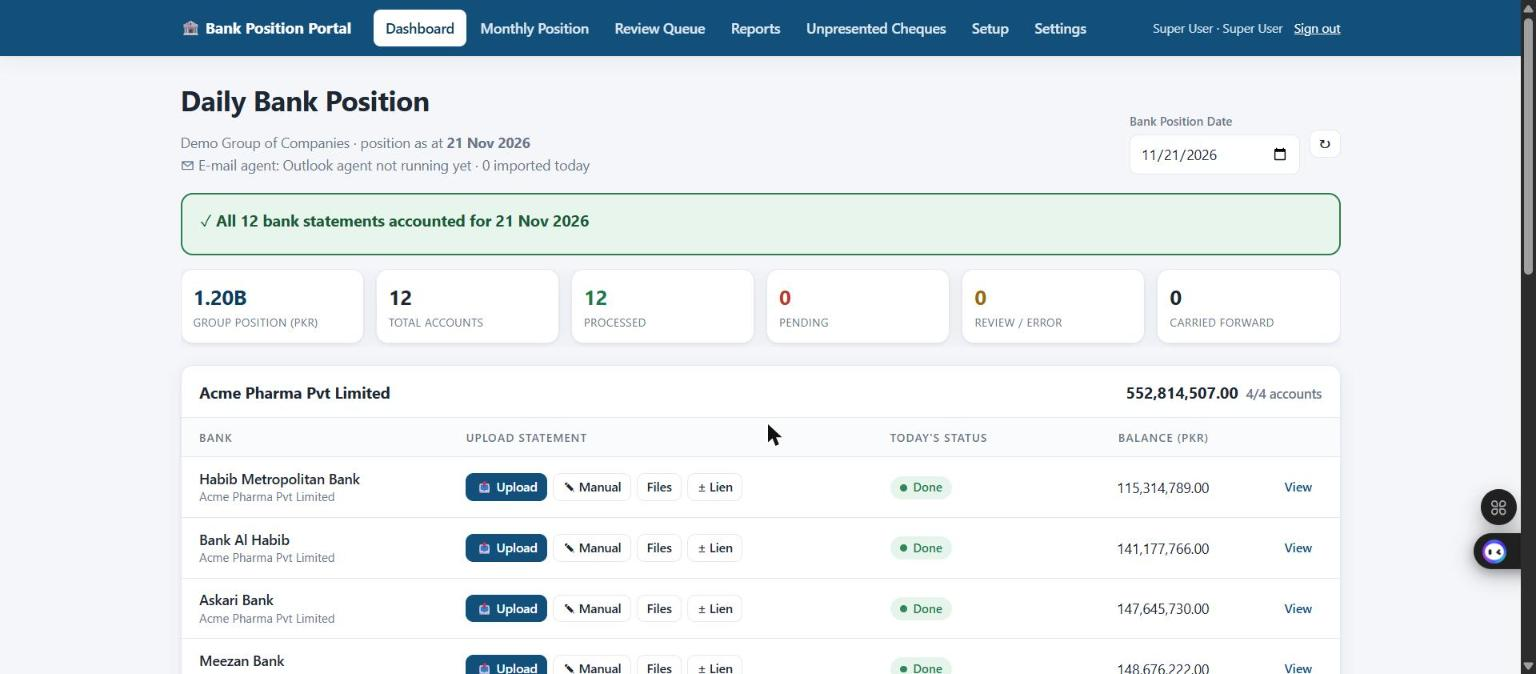
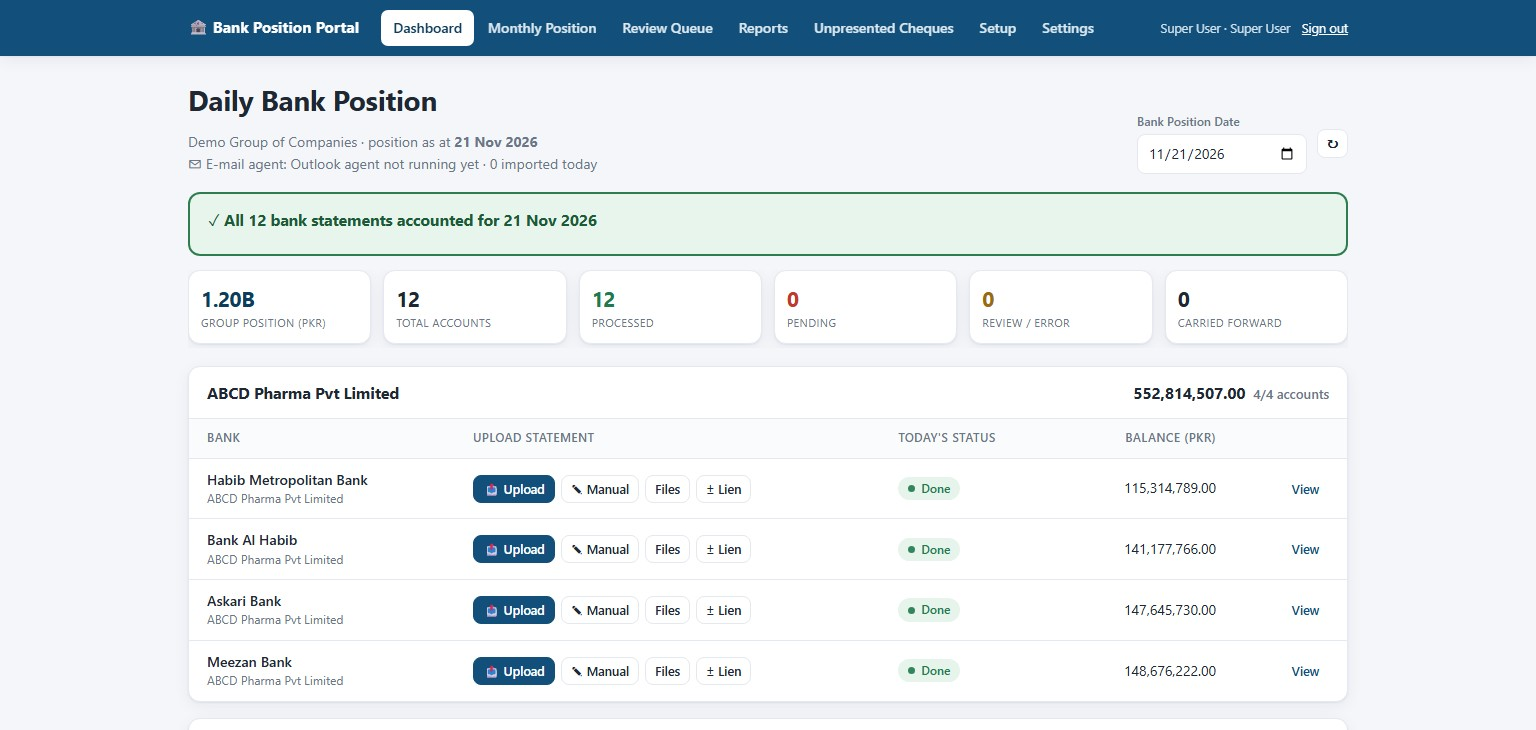
Use ABCD Pharma as the demo company; retake screenshots

diff --git a/db.js b/db.js
@@ -595,8 +595,8 @@ function seedOrgStructure() {
   bankSpec.forEach((b, i) => { bankByName[b[0]] = Number(insBank.run(b[0], b[1], b[2], i + 1).lastInsertRowid); });
 
   const companies = [
-    ['Acme Pharma Pvt Limited', 'ACM', ['Habib Metropolitan Bank', 'Bank Al Habib', 'Askari Bank', 'Meezan Bank']],
-    ['Acme Pharma (Trade)', 'ACT', ['Habib Metropolitan Bank']],
+    ['ABCD Pharma Pvt Limited', 'ABC', ['Habib Metropolitan Bank', 'Bank Al Habib', 'Askari Bank', 'Meezan Bank']],
+    ['ABCD Pharma (Trade)', 'ABT', ['Habib Metropolitan Bank']],
     ['Northwind Health Pvt Limited', 'NWH', ['Habib Metropolitan Bank', 'Bank Al Habib', 'Askari Bank', 'Meezan Bank']],
     ['Contoso Aesthetics Pvt Limited', 'CNT', ['Bank Al Habib']],
     ['Globex Laboratories', 'GLX', ['Bank Al Habib', 'Meezan Bank']],
@@ -695,14 +695,14 @@ db.prepare("UPDATE companies SET cashflow_enabled = 0 WHERE code = 'GLX'").run()
 
 // short names used in e-mail subjects / file names (editable in Setup); only filled where blank
 {
-  const defaults = { ACM: 'ACM, ACME', ACT: 'ACT, TRADE', NWH: 'NWH, NORTHWIND, HEALTH', CNT: 'CNT, CONTOSO', GLX: 'GLX, GLOBEX' };
+  const defaults = { ABC: 'ABC, ABCD', ABT: 'ABT, TRADE', NWH: 'NWH, NORTHWIND, HEALTH', CNT: 'CNT, CONTOSO', GLX: 'GLX, GLOBEX' };
   const up = db.prepare("UPDATE companies SET aliases = ? WHERE code = ? AND (aliases IS NULL OR aliases = '')");
   for (const [code, al] of Object.entries(defaults)) up.run(al, code);
 }
 
 // Meezan statements carry no account number, only a "Generated By" user code (for example DEMO1; digits ignored)
 {
-  const add = { GLX: 'GLOBX', NWH: 'NORTHW', ACM: 'ACMEX' };
+  const add = { GLX: 'GLOBX', NWH: 'NORTHW', ABC: 'ABCDX' };
   const get = db.prepare('SELECT id, aliases FROM companies WHERE code = ?');
   const set = db.prepare('UPDATE companies SET aliases = ? WHERE id = ?');
   for (const [code, alias] of Object.entries(add)) {

diff --git a/services/unpresented.js b/services/unpresented.js
@@ -14,7 +14,7 @@ const ExcelJS = require('exceljs');
 const { db, getSetting, setSetting, logAudit, decryptSecret, STORAGE_DIR } = require('../db');
 
 const SECTION_DEFAULT = { 'habib metro': 1, 'northwind health hmb': 6, 'bank al habib': 2, 'contoso aesthetic': 10, 'askari bank': 3 };
-const LABEL_DEFAULT = { health: 6, 'acme pvt ltd': 1 };
+const LABEL_DEFAULT = { health: 6, 'abcd pharma pvt ltd': 1 };
 
 const norm = (s) => String(s == null ? '' : s).toLowerCase().replace(/[^a-z0-9]+/g, ' ').trim();
 const num = (v) => { const n = Number(String(v == null ? '' : v).replace(/[^0-9.\-]/g, '')); return isFinite(n) ? n : NaN; };
